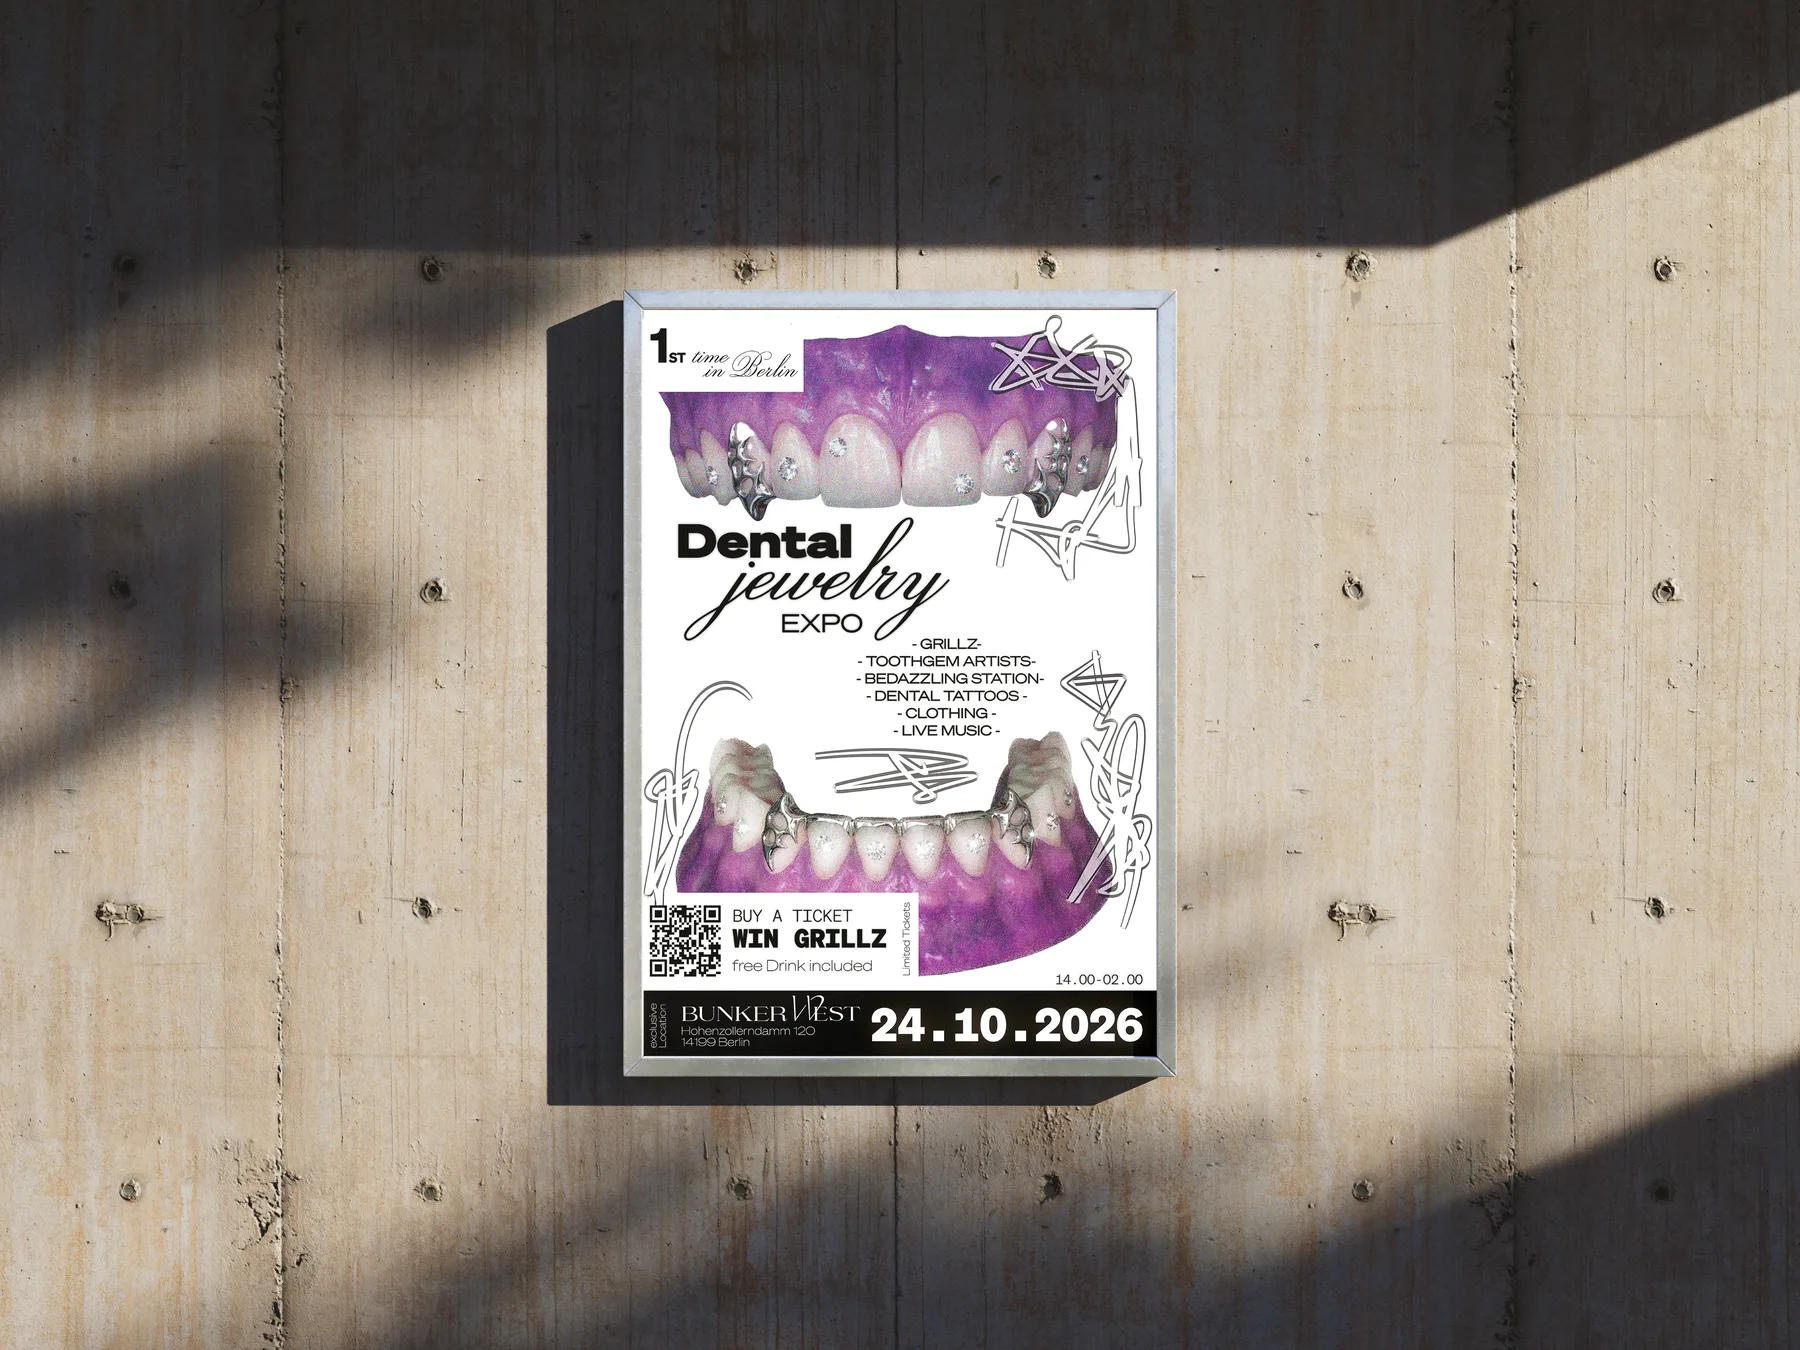
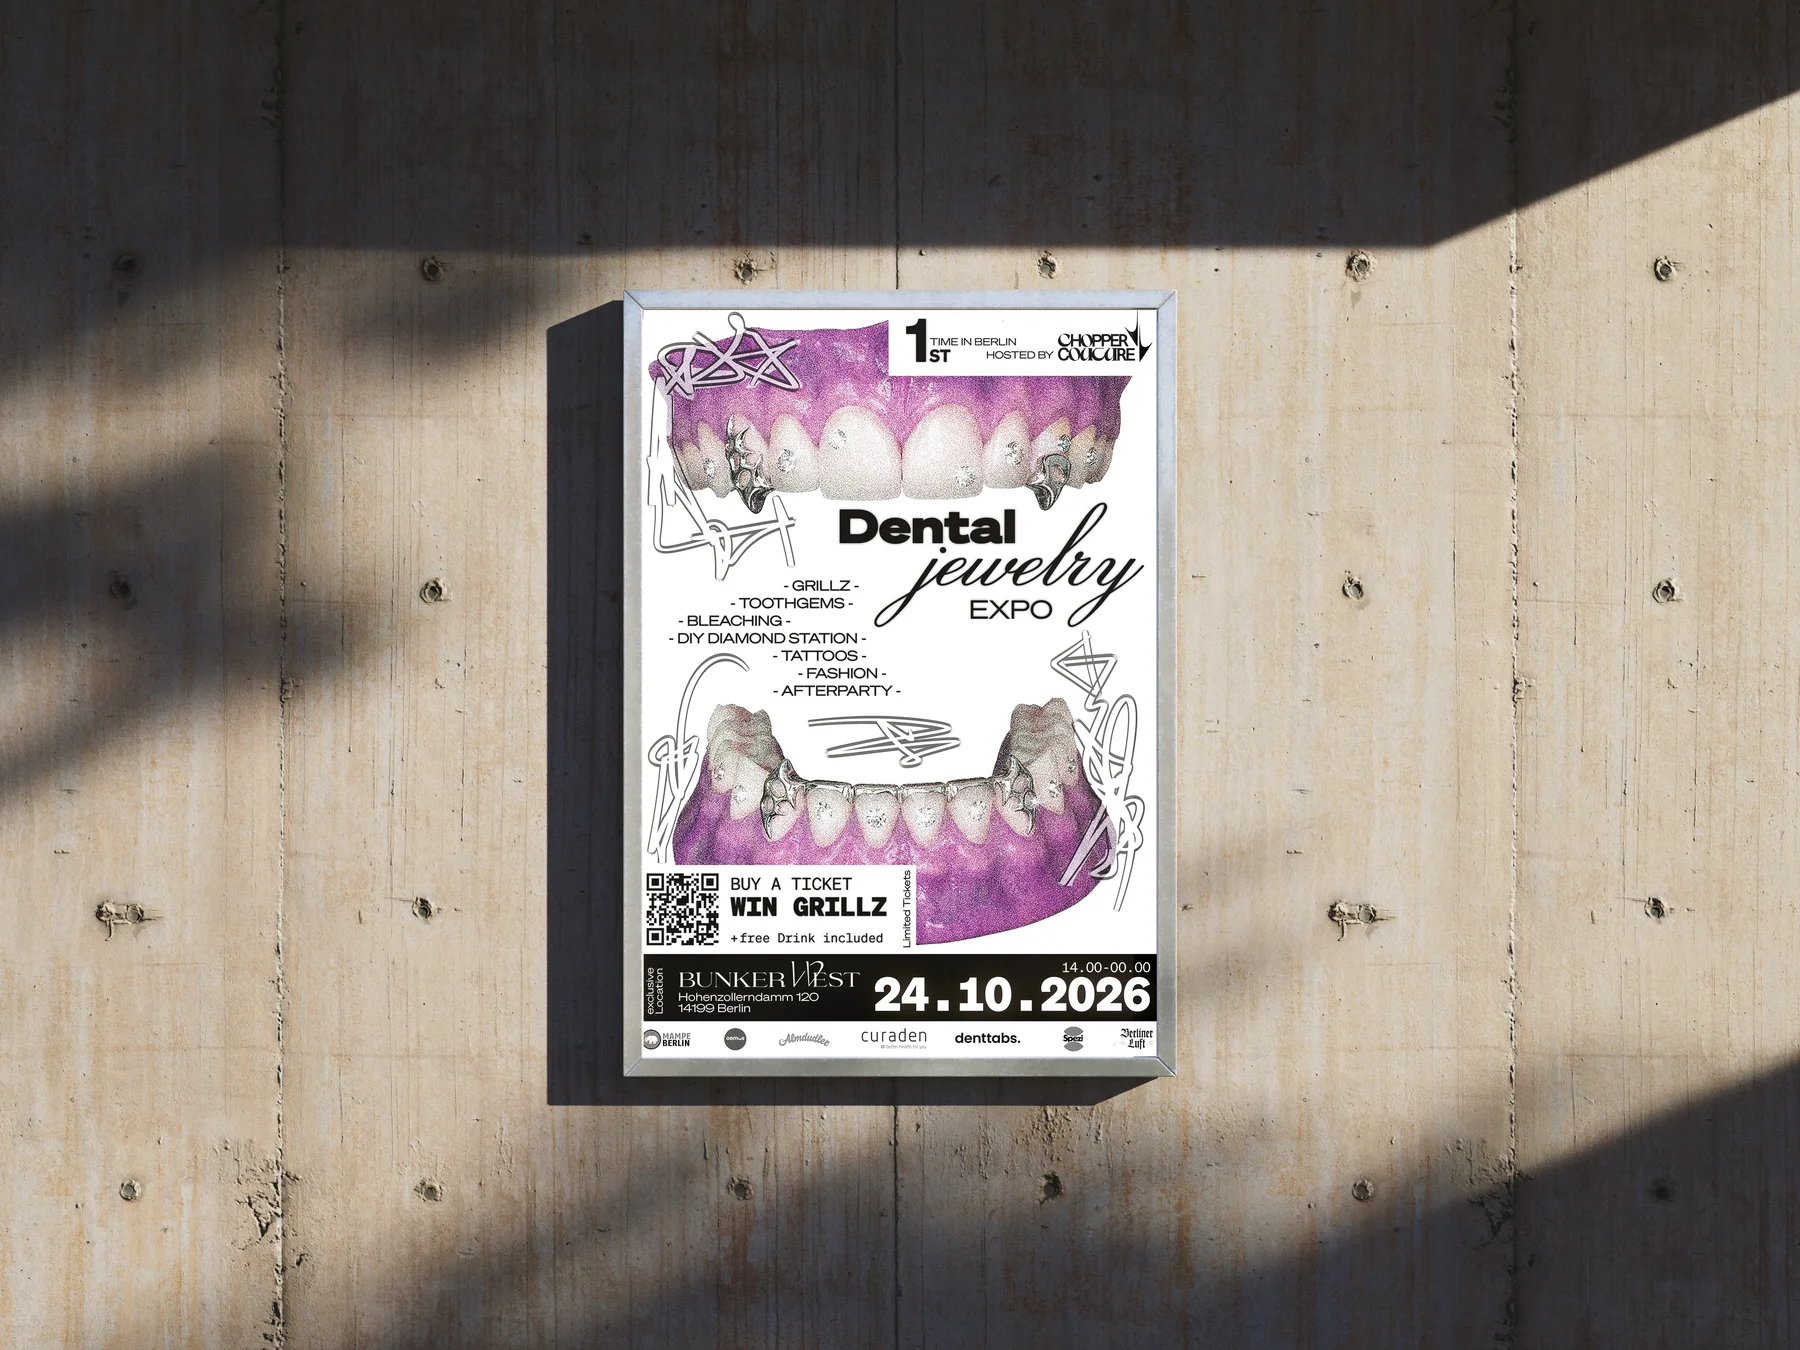
Expo-Seite: neues Plakat, Goldie 333, Curaprox, Denttabs, Presse, Partnerband
Goldie 333 eroeffnet als Live Act die Ausstellerliste und steht mit 20:30
im Ablauf. Curaprox und Denttabs kommen als Messestaende mit Goodiebags
zwischen die Toothgem-Artists und den Tattoo-Teil. Die Liste laeuft damit
von 01 bis 14.

Neu dazu ein Partner-Laufband direkt vor den Ausstellenden, endlos von
rechts nach links. Die Logos sind auf gleiche Flaeche gerechnet statt auf
gleiche Hoehe, sonst wirkt ein breiter Schriftzug doppelt so gross wie ein
quadratisches Signet. Jede Kopie der Liste ist mindestens fensterbreit,
damit beim Umlauf rechts keine Luecke klafft.

Dazu ein Presse-Block hinter den Ausstellenden mit der Zahntechnik Zeitung
von OEMUS MEDIA und dem Link ins E-Paper.

Ausserdem das neue Plakat oben, das Veranstaltungsende auf Mitternacht
passend zum Plakat, und auf schmalen Schirmen steht das Ticket jetzt ueber
dem Bunker-Bild statt darunter.

Changed region(s): [[0.3422, 0.2178, 0.6533, 0.8089]]

diff --git a/app/event/page.tsx b/app/event/page.tsx
@@ -48,7 +48,7 @@ const EVENT = {
 
   /** Anzeigetext für Datum + Uhrzeit. */
   dateLabel: "Samstag, 24. Oktober 2026",
-  doorsLabel: "14:00–02:00 Uhr",
+  doorsLabel: "14:00–00:00 Uhr",
 
   /** Der Ort, im Ton des Decks. */
   venueText:
@@ -65,14 +65,19 @@ const EVENT = {
       text: "Türen auf, Free Drink, die Ausstellung öffnet. Ab jetzt laufen die ersten Slots.",
     },
     {
-      time: "14:00–21:00",
+      time: "14:00–20:30",
       title: "Peak",
       text: "Hands on: Abdrücke nehmen, Tooth Gems setzen, Beratung. Bar und Snacks durchgehend, Musik den ganzen Tag.",
     },
     {
-      time: "21:00–02:00",
+      time: "20:30",
+      title: "Live",
+      text: "Goldie 333 live auf der Bühne.",
+    },
+    {
+      time: "21:00–00:00",
       title: "Stage",
-      text: "Live Act, DJ-Sets, die Grillz-Verlosung und Afterparty bis zwei. Gehen oder bleiben, beides geht.",
+      text: "DJ-Sets, die Grillz-Verlosung und Afterparty bis Mitternacht. Gehen oder bleiben, beides geht.",
     },
   ],
 
@@ -91,6 +96,18 @@ const EVENT = {
   exhibitors: [
     {
       n: "01",
+      role: "Live Music",
+      title: "Goldie 333",
+      body: "Live auf der Bühne, 20:30.",
+      instagram: "goldie.333",
+      images: [
+        { src: "/images/event/aussteller/goldie-1.webp", alt: "Goldie 333 mit Grillz, Cap und Sonnenbrille" },
+        { src: "/images/event/aussteller/goldie-2.webp", alt: "Goldie 333 am Mikrofon auf der Bühne" },
+        { src: "/images/event/aussteller/goldie-3.webp", alt: "Goldie 333, Schwarzweißaufnahme" },
+      ],
+    },
+    {
+      n: "02",
       role: "Grillz",
       title: "Chopper Couture",
       body: "Anika Müggler, Zahntechnikerin. Dazu ein Workshop zur Modellherstellung.",
@@ -102,7 +119,7 @@ const EVENT = {
       ],
     },
     {
-      n: "02",
+      n: "03",
       role: "Grillz",
       title: "Grillz by Espino",
       body: "Chrome Grillz aus Kreuzberg.",
@@ -114,7 +131,7 @@ const EVENT = {
       ],
     },
     {
-      n: "03",
+      n: "04",
       role: "Grillz",
       title: "dimapeletsky",
       body: "Dark Biomorphic Style.",
@@ -126,7 +143,7 @@ const EVENT = {
       ],
     },
     {
-      n: "04",
+      n: "05",
       role: "Grillz",
       title: "Bladezz",
       body: "Floral, organisch, filigran.",
@@ -138,7 +155,7 @@ const EVENT = {
       ],
     },
     {
-      n: "05",
+      n: "06",
       role: "Toothgems",
       title: "Toothcandy",
       body: "Toothgems von Melissa Righi.",
@@ -150,7 +167,7 @@ const EVENT = {
       ],
     },
     {
-      n: "06",
+      n: "07",
       role: "Toothgems",
       title: "Kristall Pearl",
       body: "Sexy Smiles.",
@@ -162,7 +179,7 @@ const EVENT = {
       ],
     },
     {
-      n: "07",
+      n: "08",
       role: "Toothgems",
       title: "Gems by Jiji",
       body: "Jiji, Dental Cosmetic Specialist. Tooth Gems und Bleaching.",
@@ -173,8 +190,33 @@ const EVENT = {
         { src: "/images/event/aussteller/jiji-3.webp", alt: "Dicht gesetzte klare Tooth Gems von Gems by Jiji" },
       ],
     },
+    // Instagram-Handles der beiden Marken stehen noch aus, deshalb null.
     {
-      n: "08",
+      n: "09",
+      role: "Messestand",
+      title: "Curaprox",
+      body: "Swiss Premium Oral Care von Curaden. Messestand mit Goodiebags.",
+      instagram: null as string | null,
+      images: [
+        { src: "/images/event/aussteller/curaprox-1.webp", alt: "Zahnbürsten, Zahnpasta und Interdentalpflege von Curaprox" },
+        { src: "/images/event/aussteller/curaprox-2.webp", alt: "Curaprox Zahnbürsten in vielen Farben, als Bogen gestellt" },
+        { src: "/images/event/aussteller/curaprox-3.webp", alt: "Zwei Curaprox Zahnbürsten neben der Verpackung" },
+      ],
+    },
+    {
+      n: "10",
+      role: "Messestand",
+      title: "Denttabs",
+      body: "Die Zahnputztablette. Messestand mit Goodiebags.",
+      instagram: null as string | null,
+      images: [
+        { src: "/images/event/aussteller/denttabs-1.webp", alt: "Denttabs Zahnputztabletten in Mint und Strawberry mit Bambusbürste" },
+        { src: "/images/event/aussteller/denttabs-2.webp", alt: "Denttabs Strawberry Packung mit Bambusbürste" },
+        { src: "/images/event/aussteller/denttabs-3.webp", alt: "Bambusbürsten im Glas neben einem Glas voller Zahnputztabletten" },
+      ],
+    },
+    {
+      n: "11",
       role: "Dental Tattoos",
       title: "June Handpoke",
       body: "Small stick and poke dental flashes on your skin xP",
@@ -186,7 +228,7 @@ const EVENT = {
       ],
     },
     {
-      n: "09",
+      n: "12",
       role: "Tattoo",
       title: "Anh",
       body: "Feine Linien, kleine Motive.",
@@ -198,7 +240,7 @@ const EVENT = {
       ],
     },
     {
-      n: "10",
+      n: "13",
       role: "Fashion",
       title: "Lina Leuschen",
       body: "Genähte Einzelstücke aus Denim, Tüll und Metall.",
@@ -210,7 +252,7 @@ const EVENT = {
       ],
     },
     {
-      n: "11",
+      n: "14",
       role: "Bedazzling Station",
       title: "Diamond Painting Station",
       // Formulierung stammt nicht von der Station selbst, sondern ist an
@@ -226,7 +268,35 @@ const EVENT = {
   ],
 
   /** Kategorien vom Plakat, für die noch keine Namen final sind. */
-  openSlots: ["Clothing", "Live Music"],
+  openSlots: ["Clothing"],
+
+  /**
+   * Partner und Sponsoren fuers Laufband. Die Dateien liegen bereits auf
+   * gleiche optische Groesse gerechnet unter public/images/event/partner/,
+   * jeweils in doppelter Aufloesung. w und h sind deshalb die halbe
+   * Dateigroesse, also die Anzeigegroesse in CSS-Pixeln. Gleiche Flaeche
+   * statt gleicher Hoehe, sonst wirkt ein breiter Schriftzug neben einem
+   * quadratischen Signet doppelt so gross.
+   */
+  partners: [
+    { src: "/images/event/partner/curaden.webp", alt: "Curaden", w: 132, h: 43 },
+    { src: "/images/event/partner/denttabs.webp", alt: "Denttabs", w: 170, h: 27 },
+    { src: "/images/event/partner/mampe.webp", alt: "Mampe Berlin", w: 118, h: 48 },
+    { src: "/images/event/partner/berliner-luft.webp", alt: "Berliner Luft", w: 109, h: 52 },
+    { src: "/images/event/partner/almdudler.webp", alt: "Almdudler", w: 149, h: 38 },
+    { src: "/images/event/partner/spezi.webp", alt: "Spezi", w: 70, h: 80 },
+    { src: "/images/event/partner/oemus.webp", alt: "OEMUS MEDIA", w: 75, h: 75 },
+  ],
+
+  /** Presse über die Expo. Leeres Array blendet den ganzen Block aus. */
+  press: [
+    {
+      outlet: "Zahntechnik Zeitung",
+      publisher: "OEMUS MEDIA",
+      issue: "Ausgabe 10/2026",
+      url: "https://epaper.zwp-online.info/epaper/sim/zt/2026/zt1026#4",
+    },
+  ],
 
   /** Was es sonst noch gibt. */
   details: [
@@ -289,10 +359,10 @@ const EVENT = {
 
   /** ISO-Start/Ende, nur für die strukturierten Daten.
       +02:00, weil die Sommerzeit erst am 25.10.2026 endet. Die Zeitumstellung
-      in dieser Nacht (03:00 CEST → 02:00 CET) liegt nach dem Ende um 02:00,
-      beide Zeiten stehen also noch in der Sommerzeit. */
+      in dieser Nacht (03:00 CEST → 02:00 CET) liegt nach dem Ende um
+      Mitternacht, beide Zeiten stehen also noch in der Sommerzeit. */
   startIso: "2026-10-24T14:00:00+02:00",
-  endIso: "2026-10-25T02:00:00+02:00",
+  endIso: "2026-10-25T00:00:00+02:00",
 };
 // ────────────────────────────────────────────────────────────────────────────
 
@@ -789,7 +859,13 @@ export default function EventPage() {
             Ticket kollidieren würde; dort stehen Motiv und Ticket deshalb
             als normale Reihe unter dem Text.
 
-            Mobile stapelt: Nachtbild, Text, Ticket, Motiv. */}
+            Mobile stapelt: Ticket, Nachtbild, Text, Motiv. Der Kauf steht
+            dort ganz oben, noch vor dem Nachtbild. Dafuer loest der Wrapper
+            um Motiv und Ticket sich unterhalb von 1024px per contents auf,
+            damit beide direkte Flex-Kinder werden und das Ticket per
+            order-first nach vorn springen kann. Die Abstaende, die vorher
+            vom Wrapper kamen (mt-10, gap-8), tragen deshalb unterhalb von
+            1024px die Kinder selbst. */}
         <div
           className="mt-14 md:mt-20 flex flex-col lg:grid lg:grid-cols-[auto_minmax(0,1fr)] lg:grid-rows-[auto_auto] lg:items-start xl:relative"
           style={
@@ -808,7 +884,7 @@ export default function EventPage() {
           }
         >
           {/* Nachtbild, ganz links */}
-          <div className="relative w-full aspect-[3/4] overflow-hidden bg-cc-pure lg:col-start-1 lg:row-start-1 lg:row-span-2 lg:aspect-auto lg:h-[var(--bh)] lg:w-[calc(var(--bh)*0.75)]">
+          <div className="relative w-full aspect-[3/4] overflow-hidden bg-cc-pure mt-10 lg:mt-0 lg:col-start-1 lg:row-start-1 lg:row-span-2 lg:aspect-auto lg:h-[var(--bh)] lg:w-[calc(var(--bh)*0.75)]">
             <Image
               src="/images/event/bunker-west-nacht.webp"
               alt="Eingang des Bunker West bei Nacht, Menschen warten vor der beleuchteten Tür"
@@ -849,10 +925,11 @@ export default function EventPage() {
           {/* Motiv und Ticket. xl:contents löst diesen Wrapper ab 1280px
               auf, damit beide Kinder direkt gegen den Container positioniert
               werden können. Darunter bleibt er eine normale Reihe. */}
-          <div className="mt-10 flex flex-col lg:flex-row lg:items-end gap-8 lg:gap-10 lg:col-start-2 lg:row-start-2 lg:pl-14 lg:pr-12 xl:contents">
-            {/* Ticket steht im DOM vor dem Motiv, damit der Kauf auf dem
-                Handy nicht ans Ende rutscht. */}
-            <div className="px-6 md:px-12 lg:px-0 lg:order-2 w-full lg:w-[420px] lg:shrink-0 xl:absolute xl:z-20 xl:w-[calc(var(--gh)*var(--tv))] xl:left-[calc(var(--bh)*0.75+var(--gh)*0.4+2.5rem)] xl:top-[calc(50%+var(--gy)+var(--gh)/2)] xl:-translate-y-full">
+          <div className="contents lg:flex lg:flex-row lg:items-end lg:gap-10 lg:col-start-2 lg:row-start-2 lg:pl-14 lg:pr-12 xl:contents">
+            {/* order-first zieht das Ticket auf Mobile vor das Nachtbild.
+                Ab 1024px greift wieder lg:order-2, dann steht es rechts
+                neben dem Motiv. */}
+            <div className="px-6 md:px-12 lg:px-0 order-first lg:order-2 w-full lg:w-[420px] lg:shrink-0 xl:absolute xl:z-20 xl:w-[calc(var(--gh)*var(--tv))] xl:left-[calc(var(--bh)*0.75+var(--gh)*0.4+2.5rem)] xl:top-[calc(50%+var(--gy)+var(--gh)/2)] xl:-translate-y-full">
               <TicketCard ticketsLive={ticketsLive} />
 
               {/* Pflichthinweis direkt unter der Grafik. top-full hängt ihn
@@ -871,7 +948,7 @@ export default function EventPage() {
               </p>
             </div>
 
-            <div className="relative w-full aspect-[4/5] overflow-hidden bg-cc-pure lg:order-1 lg:w-auto lg:h-[calc(var(--bh)*0.4)] lg:shrink-0 xl:absolute xl:z-10 xl:h-[var(--gh)] xl:w-[calc(var(--gh)*0.8)] xl:left-[calc(var(--bh)*0.75)] xl:top-[calc(50%+var(--gy))] xl:-translate-x-1/2 xl:-translate-y-1/2">
+            <div className="relative w-full aspect-[4/5] overflow-hidden bg-cc-pure mt-10 lg:mt-0 lg:order-1 lg:w-auto lg:h-[calc(var(--bh)*0.4)] lg:shrink-0 xl:absolute xl:z-10 xl:h-[var(--gh)] xl:w-[calc(var(--gh)*0.8)] xl:left-[calc(var(--bh)*0.75)] xl:top-[calc(50%+var(--gy))] xl:-translate-x-1/2 xl:-translate-y-1/2">
               <Image
                 src="/images/event/grillz-gewinnen.webp"
                 alt="Grillz von Chopper Couture, getragen"
@@ -902,6 +979,46 @@ export default function EventPage() {
               </li>
             ))}
           </ul>
+        </div>
+
+        {/* ── Partner-Laufband ─────────────────────────────────────
+            Laeuft endlos von rechts nach links, direkt vor den
+            Ausstellenden. Die Liste steht zweimal in der Spur, die zweite
+            ist eine reine Bildwiederholung und deshalb aria-hidden, sonst
+            laese ein Screenreader jede Marke doppelt vor. Der Hintergrund
+            ist explizit cc-offwhite, weil die Logodateien denselben Ton als
+            Flaeche mitbringen und sonst als helle Kaesten auffielen. */}
+        <div className="mt-20 md:mt-32 border-y border-cc-black/15 bg-cc-offwhite overflow-hidden">
+          <div className="cc-marquee-track flex w-max">
+            {[0, 1].map((kopie) => (
+              <ul
+                key={kopie}
+                /* min-w-[100vw] ist der Knackpunkt: Die sieben Logos sind
+                   zusammen schmaler als ein breiter Bildschirm. Ohne die
+                   Mindestbreite waere die Spur schmaler als zweimal das
+                   Fenster, und beim Umlauf klaffte rechts eine Luecke.
+                   justify-around verteilt die Logos dann ueber die ganze
+                   Breite, statt sie links zusammenzuschieben. */
+                className="flex shrink-0 items-center justify-around min-w-[100vw]"
+                aria-hidden={kopie === 1}
+              >
+                {EVENT.partners.map((partner) => (
+                  <li
+                    key={partner.src}
+                    className="shrink-0 px-7 md:px-10 py-6 md:py-7"
+                  >
+                    <Image
+                      src={partner.src}
+                      alt={partner.alt}
+                      width={partner.w}
+                      height={partner.h}
+                      sizes={`${partner.w}px`}
+                    />
+                  </li>
+                ))}
+              </ul>
+            ))}
+          </div>
         </div>
 
         {/* ── Die Ausstellenden ────────────────────────────────────────────
@@ -963,6 +1080,50 @@ export default function EventPage() {
             </div>
           )}
         </div>
+
+        {/* ── Presse ─────────────────────────────────────────────
+            Steht bewusst hinter den Ausstellenden und vor den Fakten. Eine
+            Zeile pro Erwähnung, derselbe Linkstil wie die Instagram-Links
+            in den Kacheln. Ist EVENT.press leer, fällt der Block weg. */}
+        {EVENT.press.length > 0 && (
+          <div className="px-6 md:px-10 max-w-[920px] mx-auto mt-20 md:mt-32">
+            <p
+              className="section-name text-cc-black/50"
+              style={{ fontSize: "0.7rem", letterSpacing: "0.08em" }}
+            >
+              PRESSE
+            </p>
+            <ul className="mt-5">
+              {EVENT.press.map((item) => (
+                <li
+                  key={item.url}
+                  className="border-t border-cc-black/15 pt-5 mt-5 first:mt-0"
+                >
+                  <p
+                    className="font-hatton"
+                    style={{ fontSize: "clamp(1.25rem, 2.4vw, 1.75rem)", lineHeight: "1.2" }}
+                  >
+                    {item.outlet}
+                  </p>
+                  <p
+                    className="mt-2 body-copy text-cc-black/70"
+                    style={{ fontSize: "clamp(0.9375rem, 1.1vw, 1.0625rem)" }}
+                  >
+                    {item.publisher} · {item.issue}
+                  </p>
+                  <a
+                    href={item.url}
+                    target="_blank"
+                    rel="noopener noreferrer"
+                    className="mt-1.5 inline-block py-3.5 font-mono text-xs tracking-cc-caps uppercase text-cc-black/55 underline underline-offset-4 hover:text-cc-purple transition-colors"
+                  >
+                    Zum E-Paper
+                  </a>
+                </li>
+              ))}
+            </ul>
+          </div>
+        )}
 
         <div className="px-6 md:px-10 max-w-[920px] mx-auto">
           {/* Fakten, Datum, Einlass, Ort, Preis */}

diff --git a/app/globals.css b/app/globals.css
@@ -252,6 +252,27 @@ main p {
   }
 }
 
+/* --- Partner-Laufband ---------------------------------------------------
+   Die Spur enthält die Logoliste zweimal hintereinander. Sie wandert um
+   genau die Hälfte ihrer eigenen Breite nach links. In dem Moment steht
+   die Kopie exakt dort, wo das Original begann, der Sprung zurück auf 0
+   ist deshalb unsichtbar und das Band läuft ohne Naht weiter. */
+@keyframes cc-marquee {
+  from { transform: translate3d(0, 0, 0); }
+  to   { transform: translate3d(-50%, 0, 0); }
+}
+.cc-marquee-track {
+  animation: cc-marquee var(--cc-marquee-dauer, 42s) linear infinite;
+  will-change: transform;
+}
+
+/* Reduced motion: Band steht still, die erste Liste bleibt sichtbar */
+@media (prefers-reduced-motion: reduce) {
+  .cc-marquee-track {
+    animation: none;
+  }
+}
+
 /* --- Tooth Designer: Zahn-Polygone über dem Gebiss-PNG --- */
 .cc-tooth {
   fill: transparent;
